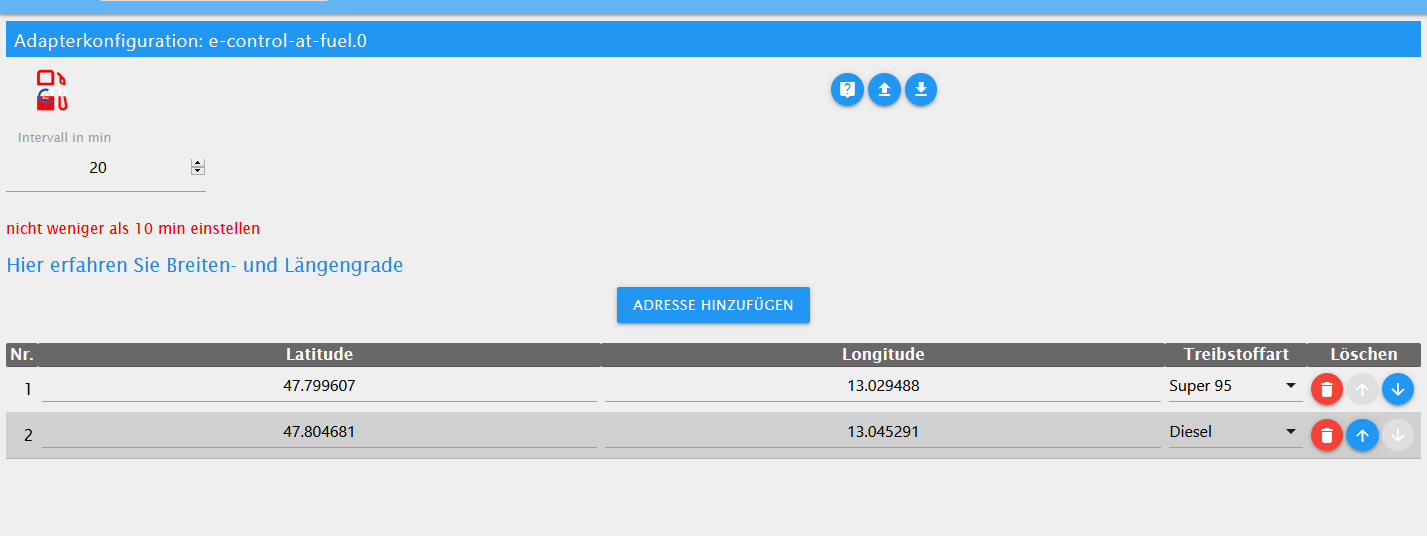
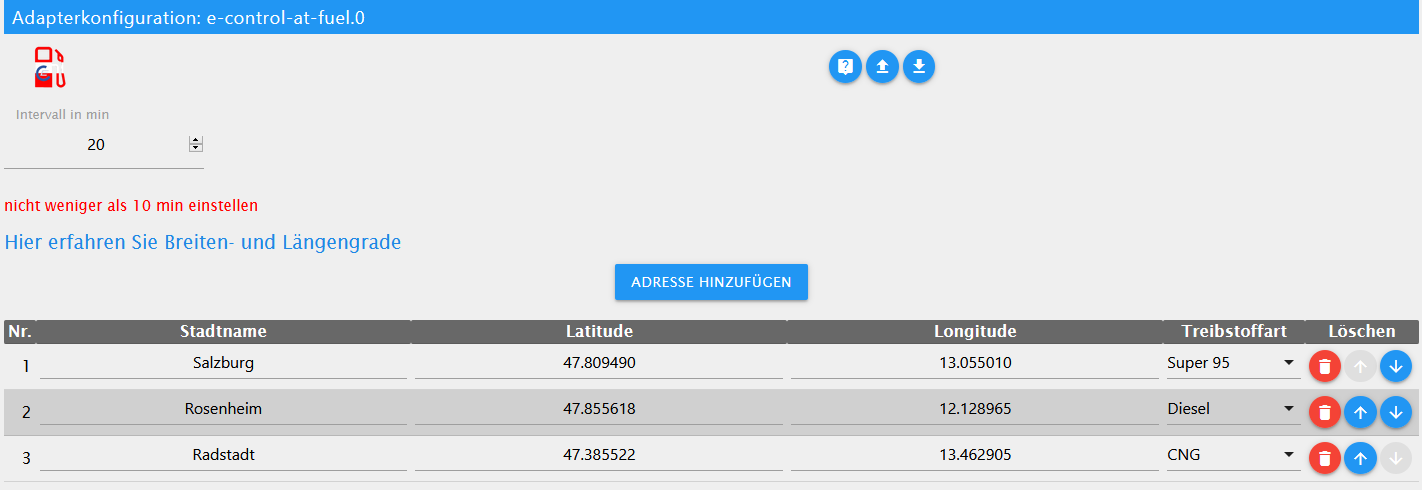
City and fuel type added as a designation

diff --git a/main.js b/main.js
@@ -13,8 +13,8 @@ const { default: axios } = require('axios');
 let timer = null;
 let requestTimeout = null;
 const apiUrl = [];
-
-
+const cityName = [];
+const fuel = [];
 class EControlAtFuel extends utils.Adapter {
 
 	/**
@@ -45,8 +45,14 @@ class EControlAtFuel extends utils.Adapter {
 		timer = this.config.interval;
 		if (timer < 10) {
 			timer = 10;
-			this.log.warn(`Attention the polling interval is below the minimum limit, please set it to at least 10 min`)
+			this.log.warn(`Attention the polling interval is below the minimum limit, please set it to at least 10 min`);
 		}
+		for (const i in this.config.address) {
+			// @ts-ignore
+			cityName[i] = await this.replaceFunction(this.config.address[i].city);
+			console.log(`cityName ${cityName}`)
+		}
+
 
 		await this.api();
 		await this.request();
@@ -56,10 +62,32 @@ class EControlAtFuel extends utils.Adapter {
 	async api() {
 		for (const i in this.config.address) {
 
+			// @ts-ignore
 			const latitude = this.config.address[i].latitude;
+			// @ts-ignore
 			const longitude = this.config.address[i].longitude;
+			// @ts-ignore
 			const fuelType = this.config.address[i].fuelType;
 
+			switch (fuelType) {
+				
+				case 'GAS':
+					fuel[i] = 'CNG';
+					console.log(fuel[i]);
+					break;
+				
+				case 'DIE':
+					fuel[i] = 'diesel';
+					console.log(fuel[i]);
+					break;
+
+				case 'SUP':
+					fuel[i] = 'super_95';
+					console.log(fuel[i]);
+					break;
+				
+				default:
+			}
 			apiUrl[i] = `https://api.e-control.at/sprit/1.0/search/gas-stations/by-address?latitude=${latitude}&longitude=${longitude}&fuelType=${fuelType}&includeClosed=true`;
 		}
 
@@ -73,7 +101,7 @@ class EControlAtFuel extends utils.Adapter {
 			for (const i in this.config.address) {
 				try {
 					apiResult[i] = await axios.get(apiUrl[i]);
-					console.log((apiResult));
+					// console.log((apiResult));
 				} catch (error) {
 					this.log.warn(`[apiResult] Unable to contact: ${error} | ${error}`);
 					continue;
@@ -101,10 +129,10 @@ class EControlAtFuel extends utils.Adapter {
 					console.log(`stationPostalCode: ${stationPostalCode}`);
 					console.log(`stationOpen: ${stationOpen}`);
 					console.log(`stationDistance: ${stationDistance}`);
-				
+
 					for (const d in await openingHours) {
 
-						await this.extendObjectAsync(`radius_${[i]}.station_${[c]}.openingHours.${await openingHours[d].label}`, {
+						await this.extendObjectAsync(`${cityName[i]}_${fuel[i]}.station_${[c]}.openingHours.${await openingHours[d].label}`, {
 							type: 'state',
 							common: {
 								name: `${await openingHours[d].label}`,
@@ -118,7 +146,7 @@ class EControlAtFuel extends utils.Adapter {
 						});
 
 
-						await this.extendObjectAsync(`radius_${[i]}.station_${[c]}.name`, {
+						await this.extendObjectAsync(`${cityName[i]}_${fuel[i]}.station_${[c]}.name`, {
 							type: 'state',
 							common: {
 								name: `station Name`,
@@ -131,7 +159,7 @@ class EControlAtFuel extends utils.Adapter {
 							native: {},
 						});
 
-						await this.extendObjectAsync(`radius_${[i]}.station_${[c]}.address`, {
+						await this.extendObjectAsync(`${cityName[i]}_${fuel[i]}.station_${[c]}.address`, {
 							type: 'state',
 							common: {
 								name: `station Address`,
@@ -144,7 +172,7 @@ class EControlAtFuel extends utils.Adapter {
 							native: {},
 						});
 
-						await this.extendObjectAsync(`radius_${[i]}.station_${[c]}.city`, {
+						await this.extendObjectAsync(`${cityName[i]}_${fuel[i]}.station_${[c]}.city`, {
 							type: 'state',
 							common: {
 								name: `station city`,
@@ -157,7 +185,7 @@ class EControlAtFuel extends utils.Adapter {
 							native: {},
 						});
 
-						await this.extendObjectAsync(`radius_${[i]}.station_${[c]}.postalCode`, {
+						await this.extendObjectAsync(`${cityName[i]}_${fuel[i]}.station_${[c]}.postalCode`, {
 							type: 'state',
 							common: {
 								name: `station PostalCode`,
@@ -170,7 +198,7 @@ class EControlAtFuel extends utils.Adapter {
 							native: {},
 						});
 
-						await this.extendObjectAsync(`radius_${[i]}.station_${[c]}.open`, {
+						await this.extendObjectAsync(`${cityName[i]}_${fuel[i]}.station_${[c]}.open`, {
 							type: 'state',
 							common: {
 								name: `station Open`,
@@ -183,7 +211,7 @@ class EControlAtFuel extends utils.Adapter {
 							native: {},
 						});
 
-						await this.extendObjectAsync(`radius_${[i]}.station_${[c]}.distance`, {
+						await this.extendObjectAsync(`${cityName[i]}_${fuel[i]}.station_${[c]}.distance`, {
 							type: 'state',
 							common: {
 								name: `station Distance`,
@@ -199,7 +227,7 @@ class EControlAtFuel extends utils.Adapter {
 
 
 
-						await this.extendObjectAsync(`radius_${[i]}.station_${[c]}.prices.fuelType`, {
+						await this.extendObjectAsync(`${cityName[i]}_${fuel[i]}.station_${[c]}.prices.fuelType`, {
 							type: 'state',
 							common: {
 								name: `station fuelType`,
@@ -212,7 +240,7 @@ class EControlAtFuel extends utils.Adapter {
 							native: {},
 						});
 
-						await this.extendObjectAsync(`radius_${[i]}.station_${[c]}.prices.price`, {
+						await this.extendObjectAsync(`${cityName[i]}_${fuel[i]}.station_${[c]}.prices.price`, {
 							type: 'state',
 							common: {
 								name: `station price`,
@@ -226,7 +254,7 @@ class EControlAtFuel extends utils.Adapter {
 							native: {},
 						});
 
-						await this.extendObjectAsync(`radius_${[i]}.station_${[c]}.prices.priceshort`, {
+						await this.extendObjectAsync(`${cityName[i]}_${fuel[i]}.station_${[c]}.prices.priceshort`, {
 							type: 'state',
 							common: {
 								name: `station priceshort`,
@@ -240,7 +268,7 @@ class EControlAtFuel extends utils.Adapter {
 							native: {},
 						});
 
-						await this.extendObjectAsync(`radius_${[i]}.station_${[c]}.prices.price3rd`, {
+						await this.extendObjectAsync(`${cityName[i]}_${fuel[i]}.station_${[c]}.prices.price3rd`, {
 							type: 'state',
 							common: {
 								name: `station price3rd`,
@@ -253,7 +281,7 @@ class EControlAtFuel extends utils.Adapter {
 							native: {},
 						});
 
-						await this.extendObjectAsync(`radius_${[i]}.station_${[c]}.lastRequest`, {
+						await this.extendObjectAsync(`${cityName[i]}_${fuel[i]}.station_${[c]}.lastRequest`, {
 							type: 'state',
 							common: {
 								name: `last request to E-Control`,
@@ -266,50 +294,53 @@ class EControlAtFuel extends utils.Adapter {
 						});
 
 						if (result.prices[0]) {
-							
+
 							const stationPrices = result.prices[0].amount;
 							const stationFuelType = result.prices[0].label;
 							const prices = this.cutPrice(await stationPrices);
 
 							console.log(`stationPrices: ${stationPrices}`);
 							console.log(`stationLabel: ${stationFuelType}`);
-							console.log(`prices: ${prices}`);
-		
-							this.log.debug(`stationPrices: ${stationPrices}`)
-							this.log.debug(`stationFuelType: ${stationFuelType}`)
-							this.log.debug(`prices: ${prices}`)
+							console.log(`prices: ${JSON.stringify(prices)}`);
+
+							this.log.debug(`stationPrices: ${stationPrices}`);
+							this.log.debug(`stationFuelType: ${stationFuelType}`);
+							this.log.debug(`prices: ${JSON.stringify(prices)}`);
 
 
-							this.setStateAsync(`radius_${[i]}.station_${[c]}.name`, `${await stationName}`, true);
-							this.setStateAsync(`radius_${[i]}.station_${[c]}.city`, `${await stationCity}`, true);
-							this.setStateAsync(`radius_${[i]}.station_${[c]}.open`, `${await stationOpen}`, true);
-							this.setStateAsync(`radius_${[i]}.station_${[c]}.distance`, `${stationDistance}`, true);
-							this.setStateAsync(`radius_${[i]}.station_${[c]}.address`, `${await stationAddress}`, true);
-							this.setStateAsync(`radius_${[i]}.station_${[c]}.lastRequest`, { val: Date.now(), ack: true });
-							this.setStateAsync(`radius_${[i]}.station_${[c]}.prices.price`, `${(await prices).price}`, true);
-							this.setStateAsync(`radius_${[i]}.station_${[c]}.postalCode`, `${await stationPostalCode}`, true);
-							this.setStateAsync(`radius_${[i]}.station_${[c]}.prices.fuelType`, `${await stationFuelType}`, true);
-							this.setStateAsync(`radius_${[i]}.station_${[c]}.prices.price3rd`, `${(await prices).price3rd}`, true);
-							this.setStateAsync(`radius_${[i]}.station_${[c]}.prices.priceshort`, `${(await prices).priceshort}`, true);
-							this.setStateAsync(`radius_${[i]}.station_${[c]}.openingHours.${await openingHours[d].label}`, `${await result.openingHours[d].from} to ${await result.openingHours[d].to}`, true);
+							this.setStateAsync(`${cityName[i]}_${fuel[i]}.station_${[c]}.name`, `${await stationName}`, true);
+							this.setStateAsync(`${cityName[i]}_${fuel[i]}.station_${[c]}.city`, `${await stationCity}`, true);
+							this.setStateAsync(`${cityName[i]}_${fuel[i]}.station_${[c]}.open`, `${await stationOpen}`, true);
+							this.setStateAsync(`${cityName[i]}_${fuel[i]}.station_${[c]}.distance`, `${stationDistance}`, true);
+							this.setStateAsync(`${cityName[i]}_${fuel[i]}.station_${[c]}.address`, `${await stationAddress}`, true);
+							this.setStateAsync(`${cityName[i]}_${fuel[i]}.station_${[c]}.lastRequest`, { val: Date.now(), ack: true });
+							// @ts-ignore
+							this.setStateAsync(`${cityName[i]}_${fuel[i]}.station_${[c]}.prices.price`, `${(await prices).price}`, true);
+							this.setStateAsync(`${cityName[i]}_${fuel[i]}.station_${[c]}.postalCode`, `${await stationPostalCode}`, true);
+							this.setStateAsync(`${cityName[i]}_${fuel[i]}.station_${[c]}.prices.fuelType`, `${await stationFuelType}`, true);
+							// @ts-ignore
+							this.setStateAsync(`${cityName[i]}_${fuel[i]}.station_${[c]}.prices.price3rd`, `${(await prices).price3rd}`, true);
+							// @ts-ignore
+							this.setStateAsync(`${cityName[i]}_${fuel[i]}.station_${[c]}.prices.priceshort`, `${(await prices).priceshort}`, true);
+							this.setStateAsync(`${cityName[i]}_${fuel[i]}.station_${[c]}.openingHours.${await openingHours[d].label}`, `${await result.openingHours[d].from} to ${await result.openingHours[d].to}`, true);
 
 						}
 						else {
 
-							this.setStateAsync(`radius_${[i]}.station_${[c]}.name`, ``, true);
-							this.setStateAsync(`radius_${[i]}.station_${[c]}.city`, ``, true);
-							this.setStateAsync(`radius_${[i]}.station_${[c]}.open`, ``, true);
-							this.setStateAsync(`radius_${[i]}.station_${[c]}.distance`, ``, true);
-							this.setStateAsync(`radius_${[i]}.station_${[c]}.address`, ``, true);
-							this.setStateAsync(`radius_${[i]}.station_${[c]}.prices.price`, ``, true);
-							this.setStateAsync(`radius_${[i]}.station_${[c]}.postalCode`, ``, true);
-							this.setStateAsync(`radius_${[i]}.station_${[c]}.prices.fuelType`, ``, true);
-							this.setStateAsync(`radius_${[i]}.station_${[c]}.prices.price3rd`, ``, true);
-							this.setStateAsync(`radius_${[i]}.station_${[c]}.prices.priceshort`, ``, true);
-							this.setStateAsync(`radius_${[i]}.station_${[c]}.lastRequest`, { val: Date.now(), ack: true });
-							this.setStateAsync(`radius_${[i]}.station_${[c]}.openingHours.${await openingHours[d].label}`, ``, true);
+							this.setStateAsync(`${cityName[i]}_${fuel[i]}.station_${[c]}.name`, ``, true);
+							this.setStateAsync(`${cityName[i]}_${fuel[i]}.station_${[c]}.city`, ``, true);
+							this.setStateAsync(`${cityName[i]}_${fuel[i]}.station_${[c]}.open`, ``, true);
+							this.setStateAsync(`${cityName[i]}_${fuel[i]}.station_${[c]}.distance`, ``, true);
+							this.setStateAsync(`${cityName[i]}_${fuel[i]}.station_${[c]}.address`, ``, true);
+							this.setStateAsync(`${cityName[i]}_${fuel[i]}.station_${[c]}.prices.price`, ``, true);
+							this.setStateAsync(`${cityName[i]}_${fuel[i]}.station_${[c]}.postalCode`, ``, true);
+							this.setStateAsync(`${cityName[i]}_${fuel[i]}.station_${[c]}.prices.fuelType`, ``, true);
+							this.setStateAsync(`${cityName[i]}_${fuel[i]}.station_${[c]}.prices.price3rd`, ``, true);
+							this.setStateAsync(`${cityName[i]}_${fuel[i]}.station_${[c]}.prices.priceshort`, ``, true);
+							this.setStateAsync(`${cityName[i]}_${fuel[i]}.station_${[c]}.lastRequest`, { val: Date.now(), ack: true });
+							this.setStateAsync(`${cityName[i]}_${fuel[i]}.station_${[c]}.openingHours.${await openingHours[d].label}`, ``, true);
 
-							
+
 						}
 
 					}
@@ -347,6 +378,20 @@ class EControlAtFuel extends utils.Adapter {
 		}
 	}
 
+	async replaceFunction(str) {
+		if (str) {
+			str = str.replace(/ü/g, 'ue');
+			str = str.replace(/Ü/g, 'Ue');
+			str = str.replace(/ö/g, 'oe');
+			str = str.replace(/Ö/g, 'Oe');
+			str = str.replace(/Ä/g, 'Ae');
+			str = str.replace(/ä/g, 'ae');
+			str = str.replace(/\.*\./gi, '_');
+			str = str.replace(/ /gi, '_');
+			str = str.toLowerCase();
+			return str;
+		}
+	}
 	/**
 	 * Is called when adapter shuts down - callback has to be called under any circumstances!
 	 * @param {() => void} callback

diff --git a/admin/index_m.html b/admin/index_m.html
@@ -115,6 +115,8 @@
 					<thead>
 						<tr>
 							<th data-name="_index" style="width: 1.1%" class="translate">Nr.</th>
+							<th data-name="city" class="translate" style="width: auto; text-align: center;"
+								data-style="text-align: center">city name</th>
 							<th data-name="latitude" class="translate" style="width: auto; text-align: center;"
 								data-style="text-align: center">Latitude</th>
 							<th data-name="longitude" class="translate" style="width: auto; text-align: center;"

diff --git a/admin/words.js b/admin/words.js
@@ -73,6 +73,18 @@ systemDictionary = {
 		'es': 'no establecer menos de 10 min',
 		'pl': 'nie ustawiać mniej niż 10 min',
 		'zh-cn': '不少于10分钟'
+	},
+	'city name': {
+		'en': 'city name',
+		'de': 'Stadtname',
+		'ru': 'название города',
+		'pt': 'Nome da Cidade',
+		'nl': 'stads naam',
+		'fr': 'Nom de Ville',
+		'it': 'nome della città',
+		'es': 'Nombre de la ciudad',
+		'pl': 'Nazwa miasta',
+		'zh-cn': '城市名称'
 	}
 
 

diff --git a/README.md b/README.md
@@ -36,6 +36,10 @@ Der Preis ist in 3 verschiedene Angaben geteilt einmal der normale preis z.B. **
 ____________________________
 ## Changelog
 
+### 0.0.3
+
+- (xXBJXx) City and fuel type added as a designation
+
 ### 0.0.2
 
 - (xXBJXx) beta release
